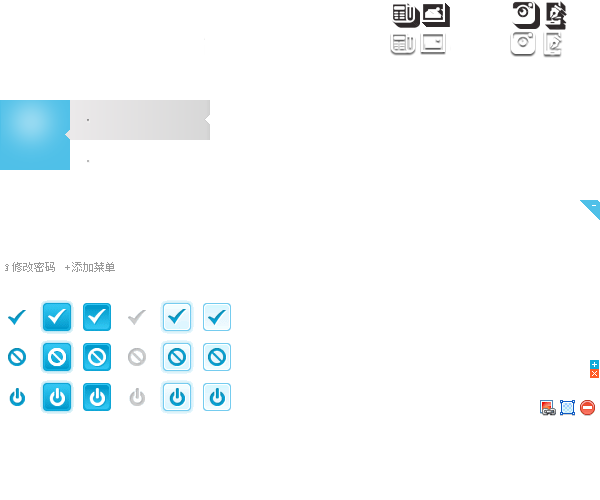
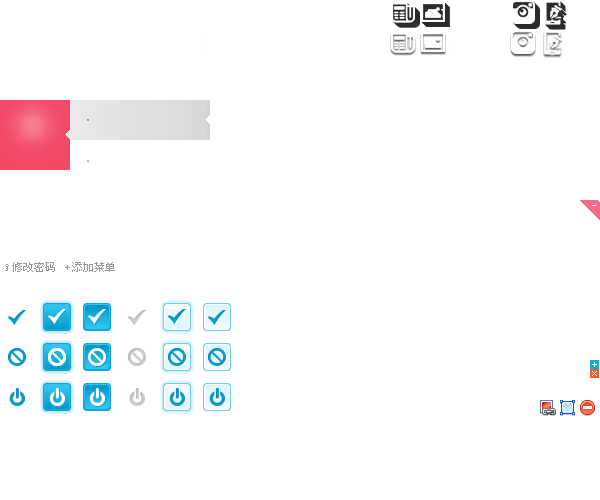
8

Changed region(s): [[0.0, 0.18, 0.12, 0.36], [0.96, 0.39, 1.0, 0.45]]

diff --git a/public/static/css/main.css b/public/static/css/main.css
@@ -286,7 +286,7 @@ a:hover.ncap-btn-black,
 a.ncap-btn-blue { background-color: #3598DC; border-color: #2A80B9; }
 a.ncap-btn-acidblue,
 .nscs-table-handle a:hover.btn-acidblue { background-color: #49AFCD; border-color: #429DB8 #429DB8 #37839A #429DB8; }
-a.ncap-btn-green { background-color: #4fc0e8; border-color: #3aa8cf; }
+a.ncap-btn-green { background-color: #f76b8a; border-color: #f34a68; }
 a.ncap-btn-orange,
 .nscs-table-handle a:hover.btn-orange,
 .nscs-table-handle a.btn-orange-current { background-color: #FAA732; margin: 0; border-style: solid; border-width: 1px; border-color: #E1962D #E1962D #BB7D25 #E1962D !important; }
@@ -296,7 +296,7 @@ a.ncap-btn-black,
 .nscs-table-handle a:hover.btn-black { background-color: #363636; border-color: #313131 #313131 #282828 #313131; }
 a:hover.ncap-btn-blue { background-color: #2A80B9; }
 a:hover.ncap-btn-acidblue { background-color: #2F96B4; border-color: #2A87A2 #2A87A2 #237087 #2A87A2; }
-a:hover.ncap-btn-green { background-color: #3aa8cf; }
+a:hover.ncap-btn-green { background-color: #f34a68; }
 a:hover.ncap-btn-orange { background-color: #F89406; border-color: #DF8505 #DF8505 #BA6F04 #DF8505; }
 a:hover.ncap-btn-red { background-color: #BD362F; border-color: #AA312A #AA312A #8E2823 #AA312A; }
 a:hover.ncap-btn-black { background-color: #222222; border-color: #1F1F1F #1F1F1F #191919 #1F1F1F; }
@@ -326,7 +326,7 @@ position: relative; z-index: 1; }
 
 /* 头部
 ******************************/
-.admincp-header { background-color: #293038; width: 100%; position: relative; z-index: 2; }
+.admincp-header { background-color: #66BFBF; width: 100%; position: relative; z-index: 2; }
 .admincp-name { width: 192px; padding: 10px 0 6px 18px; float: left; text-shadow: 0 1px 3px rgba(0,0,0,0.25); }
 .admincp-name h1 { font-family: Verdana, Geneva, sans-serif; font-size: 14px; line-height: 20px; font-weight: 700; color: #FFF; }
 .admincp-name h2 { font-size: 12px; line-height: 16px; color: #FFF; }
@@ -467,9 +467,9 @@ height: 32px; margin-right: 1px; margin-bottom: -1px; }
 .fold .admincp-container-left .about span { display: none; }
 .unfold .top-border { font-size: 0; line-height: 0; width: 210px; height: 2px; position: absolute; z-index: 1; top: -2px; left: 0; }
 .unfold .top-border .nav-side {
-filter:progid:DXImageTransform.Microsoft.gradient(enabled='true', startColorstr='#A5000000', endColorstr='#A5000000'); background: #293038; display: inline-block; width: 70px; height: 2px; }
+filter:progid:DXImageTransform.Microsoft.gradient(enabled='true', startColorstr='#A5000000', endColorstr='#A5000000'); background: #4a8585; display: inline-block; width: 70px; height: 2px; }
 .unfold .top-border .sub-side {
-filter:progid:DXImageTransform.Microsoft.gradient(enabled='true', startColorstr='#59000000', endColorstr='#59000000'); background: #293038; display: inline-block; width: 140px; height: 2px; }
+filter:progid:DXImageTransform.Microsoft.gradient(enabled='true', startColorstr='#59000000', endColorstr='#59000000'); background: #4a8585; display: inline-block; width: 140px; height: 2px; }
 .unfold .nav-tabs { width: 210px; overflow: hidden; height: 100%; }
 .unfold .nav-tabs dl { width: 100%; position: relative; z-index: 1; }
 .unfold .nav-tabs dl.active { z-index: 2; }
@@ -622,7 +622,7 @@ filter:progid:DXImageTransform.Microsoft.gradient(enabled='true', startColorstr=
 .fold .nav-tabs dl dd li.active a { color: #FFF !important; font-weight: 700; display: block; }
 .admincp-container-right { background-color: #FFF; position: absolute; z-index: 1; top: 2px; right: 0; bottom: 0; left: 210px; }
 .admincp-container-right .top-border { font-size: 0; line-height: 0; filter:progid:DXImageTransform.Microsoft.gradient(enabled='true', startColorstr='#26000000', endColorstr='#26000000');
-background: #293038; display: block; width: 100%; height: 2px; position: absolute; z-index: 1; top: -2px; left: 0; }
+background: #4a8585; display: block; width: 100%; height: 2px; position: absolute; z-index: 1; top: -2px; left: 0; }
 .fold .admincp-container-right { background-color: #FFF; position: absolute; z-index: 1; top: 2px; right: 0; bottom: 0; left: 40px; }
 .flexigrid { margin-top: 10px; position: relative; z-index: 1; overflow: hidden; }
 /*f表格标题块*/
@@ -686,7 +686,7 @@ line-height: 20px; text-align: left; padding: 2px 10px 2px 0; border-bottom: dot
 display: inline-block; vertical-align: middle; *display: inline/*IE7*/;
 *zoom:1/*IE7*/;
 border: solid 1px #D7D7D7; }
-.flexigrid .sDiv2:hover { border-color: #2cbca3; }
+.flexigrid .sDiv2:hover { border-color: #f76b8a; }
 .flexigrid .sDiv2 .qsbox,
 .flexigrid .sDiv2 .select,
 .flexigrid .sDiv2 .btn { border: none; border-radius: 0; font-size: 12px; vertical-align: top; letter-spacing: normal; display: inline-block; *display: inline/*IE7*/;
@@ -699,7 +699,7 @@ box-shadow: none;
 }
 .flexigrid .sDiv2 .btn { height: 26px; cursor: pointer; border-left: solid 1px #D7D7D7; }
 .flexigrid .sDiv2:hover .btn,
-.flexigrid .sDiv2 .btn:hover { color: #FFF; background-color: #2cbca3; }
+.flexigrid .sDiv2 .btn:hover { color: #FFF; background-color: #f76b8a; }
 .flexigrid .sDiv .a_search { color: #3b639f; display: inline-block; vertical-align: middle; *display: inline/*IE7*/;
 margin-left: 8px; *zoom:1/*IE7*/;
 }
@@ -736,9 +736,9 @@ padding: 6px 0 6px 6px; float: left; overflow: hidden; }
 .flexigrid .fbutton { vertical-align: top; letter-spacing: normal; display: inline-block; *display: inline/*IE7*/;
 padding-right: 8px; margin-left: 8px; margin-right: -1px; border-right: dotted 1px #D7D7D7; *zoom:1/*IE7*/;
 cursor: pointer; }
-.flexigrid .fbutton div { font-size: 12px; line-height: 20px; color: #0ba4da; background-color: #FFFFFF; height: 20px; padding: 2px 7px; border: solid 1px #3aa8cf; border-radius: 4px; }
+.flexigrid .fbutton div { font-size: 12px; line-height: 20px; color: #f76b8a; background-color: #FFFFFF; height: 20px; padding: 2px 7px; border: solid 1px #f34967; border-radius: 4px; }
 .flexigrid .fbutton .add:hover,
-.flexigrid .fbutton.fbOver .add:hover {background: rgba(79, 192, 232, 0.11);}
+.flexigrid .fbutton.fbOver .add:hover {background: #FEECF0;}
 .flexigrid .fbutton .del:hover,
 .flexigrid .fbutton.fbOver .del:hover { color: #E84C3D; border-color: #E84C3D; }
 .flexigrid .fbutton .csv:hover,
@@ -1177,10 +1177,10 @@ padding: 7px 20px !important; border: solid 1px #E6E6E6 !important; border-radiu
 .tab-base a.current,
 .tab-base a:hover.current { font-size: 14px !important; font-weight: 600 !important; background-color: #FFF !important; border-bottom-color: #FFF !important; cursor: default !important; }
 .item-title a.back { color: #999; display: inline-block; vertical-align: bottom; margin: 0 10px 6px 0; }
-.item-title a.back:hover { color: #4fc0e8;}
+.item-title a.back:hover { color: #f76b8a;}
 .item-title a.back i { font-size: 40px; }
 /*注释说明帮助*/
-.explanation { color:#0ba4da !important; background-color: rgba(79, 192, 232, 0.11) !important; display: block; width: 99%; height: 100%; padding: 6px 9px; border-radius: 5px; position: relative; overflow: hidden;  }
+.explanation { color:#f76b8a !important; background-color: #FEECF0 !important; display: block; width: 99%; height: 100%; padding: 6px 9px; border-radius: 5px; position: relative; overflow: hidden;  }
 .explanation:before{content: "";background-image: url(../images/wave.png); width: 100%;height: 100%;position: absolute;top: 0px;left: 0px;border-radius: 5px;background-repeat: no-repeat;background-size: cover;}
 .explanation .title { white-space: nowrap; margin-bottom: 8px; position: relative; cursor: pointer; }
 .explanation .title h4 { font-size: 14px; font-weight: normal; line-height: 20px; height: 20px; display: inline-block; }

diff --git a/application/config.php b/application/config.php
@@ -56,7 +56,7 @@ return [
     // +----------------------------------------------------------------------
 
     // 默认模块名
-    'default_module'         => 'index',
+    'default_module'         => 'admin',
     // 禁止访问模块
     'deny_module_list'       => ['common'],
     // 默认控制器名
